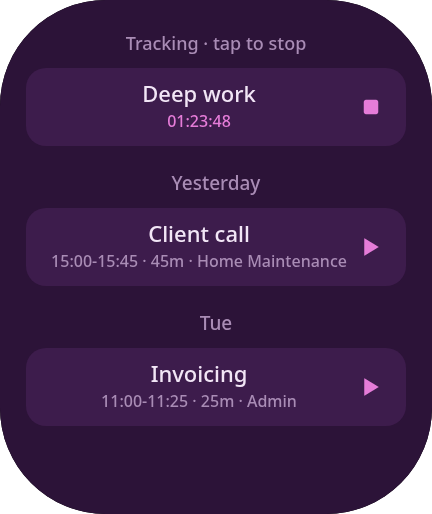
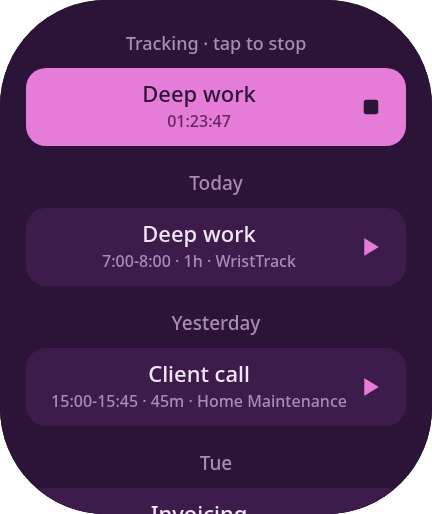
Show the running job's own history, and give its row the accent
Two things the device showed.

The history was empty whenever a timer ran, because the phone filtered
every row matching the running job out of the list on its way to the
watch. That rule dates from when the list was a menu of distinct jobs,
where offering the one already running was meaningless. As a history it
inverts: those recordings happened, and tracking a single job all month
- which is the real usage here - emptied the screen the moment it
started. The whole history now travels, and a tap naming the job
already running is ignored on the watch rather than spending a request
to change nothing.

The running row keeps the colour the old card had: accent fill, dark
ink, and a stop mark drawn in that same dark rather than pink on pink.

Drawing is one page now, not two that happened to agree - renderHistory
puts the live row above the list when there is one.

diff --git a/page/home/index.page.js b/page/home/index.page.js
@@ -262,14 +262,26 @@ Page(
      * drawn over it — Zepp text widgets do not take touches, so the button
      * underneath still receives them.
      */
-    jobRow(item, top, { onClick, subtitle, icon = PLAY_ICON, subtitleColor = COLORS.muted } = {}) {
+    jobRow(
+      item,
+      top,
+      {
+        onClick,
+        subtitle,
+        icon = PLAY_ICON,
+        color = COLORS.surface,
+        pressed = COLORS.surfacePressed,
+        labelColor = 0xf2e6f6,
+        subtitleColor = COLORS.muted
+      } = {}
+    ) {
       this.button({
         label: '',
         top,
         height: ROW_HEIGHT,
         radius: ROW_RADIUS,
-        color: COLORS.surface,
-        pressed: COLORS.surfacePressed,
+        color,
+        pressed,
         onClick
       })
       // Text and icon are drawn over the button rather than in it: Zepp text
@@ -282,7 +294,7 @@ Page(
         width: textWidth,
         height: 28,
         size: 22,
-        color: 0xf2e6f6
+        color: labelColor
       })
       const second = this.line(subtitle || item.subtitle || item.projectName, {
         left: EDGE + 22,
@@ -360,11 +372,7 @@ Page(
           'Check again'
         )
       }
-      const running = this.state.status.running
-      if (running) {
-        return this.renderRunning(running)
-      }
-      return this.renderReady()
+      return this.renderHistory()
     },
 
     /**
@@ -395,56 +403,52 @@ Page(
     },
 
     /**
-     * The live entry as a row like any other, with the whole history still
-     * below it. A tap on it stops the timer, which is what its stop mark
-     * says; a tap on a row below switches the running entry to that job
-     * without resetting the clock.
+     * One page: the month of history as rows, with the running entry
+     * conditionally at the top of it.
+     *
+     * The live row is the same size and shape as the rest, but wears the
+     * accent the old card had, so what is running reads at a glance without
+     * being a screen of its own. A tap on it stops the timer, which is what
+     * its stop mark says; a tap on any row below starts that job, or switches
+     * the running entry to it when one is already going.
      */
-    renderRunning(running) {
+    renderHistory() {
+      const running = this.state.status.running
+      const presets = this.state.status.presets || []
+
       const note = this.statusNote()
+      const busy = this.state.acting ? (running ? 'Stopping' : 'Starting') : ''
+      const lead = running ? 'Tracking · tap to stop' : 'This month · tap to start'
       this.text(
-        this.state.acting ? 'Stopping' : note ? `Tracking · ${note.toLowerCase()}` : 'Tracking · tap to stop',
+        busy || (note ? `${lead.split(' · ')[0]} · ${note.toLowerCase()}` : lead),
         30,
         26,
         18,
         this.state.acting ? COLORS.accent : COLORS.muted
       )
 
-      // The clock is the second line, ticking in place. Drawn in the accent
-      // so the live row reads differently from the finished ones below it.
-      this.state.timerWidget = this.jobRow(running, LIST_TOP, {
-        subtitle: formatElapsed(running.start),
-        subtitleColor: COLORS.accent,
-        icon: STOP_ICON,
-        onClick: () => this.stop()
-      })
-      this.state.interval = setInterval(() => {
-        if (this.state.timerWidget) {
-          this.state.timerWidget.setProperty(hmUI.prop.TEXT, formatElapsed(running.start))
-        }
-      }, 1000)
-
-      const { steps } = this.planList(this.state.status.presets, LIST_TOP + ROW_PITCH + DAY_GAP)
-      this.drawList(steps, (preset) => this.applyEdit(running, preset))
-    },
-
-    /**
-     * The month of history, every recording a row, reached by scrolling. A
-     * tap starts that job again — the row is the button, as it already is for
-     * the running row above it.
-     */
-    renderReady() {
-      const presets = this.state.status.presets || []
-
-      const note = this.statusNote()
-      const header = this.state.acting
-        ? 'Starting'
-        : note
-          ? `This month · ${note.toLowerCase()}`
-          : 'This month · tap to start'
-      this.text(header, 30, 26, 18, this.state.acting ? COLORS.accent : COLORS.muted)
+      let top = LIST_TOP
+      if (running) {
+        // The clock is the second line, ticking in place.
+        this.state.timerWidget = this.jobRow(running, top, {
+          subtitle: formatElapsed(running.start),
+          icon: STOP_ICON,
+          color: this.state.acting ? COLORS.accentPressed : COLORS.accent,
+          pressed: COLORS.accentPressed,
+          labelColor: COLORS.onAccent,
+          subtitleColor: COLORS.onAccentMuted,
+          onClick: () => this.stop()
+        })
+        this.state.interval = setInterval(() => {
+          if (this.state.timerWidget) {
+            this.state.timerWidget.setProperty(hmUI.prop.TEXT, formatElapsed(running.start))
+          }
+        }, 1000)
+        top += ROW_PITCH + DAY_GAP
+      }
 
       if (presets.length === 0) {
+        if (running) return
         this.panel(90, 120, COLORS.surface)
         this.text('Nothing tracked yet', 118, 34, 24, COLORS.text)
         this.text('Start one from Toggl first', 152, 28, 18, COLORS.muted)
@@ -455,8 +459,8 @@ Page(
       // day's recordings are already contiguous; a day with nothing tracked
       // simply never comes up. Rows with no usable start — the
       // configured-default fallback — draw ungrouped.
-      const { steps } = this.planList(presets, LIST_TOP)
-      this.drawList(steps, (preset) => this.start(preset))
+      const { steps } = this.planList(presets, top)
+      this.drawList(steps, (preset) => (running ? this.switchTo(running, preset) : this.start(preset)))
     },
 
     /**
@@ -492,6 +496,20 @@ Page(
       return Math.max(SCREEN.height, bottom + LIST_BOTTOM_PAD)
     },
 
+    /**
+     * Switches the running entry to another job. The history now includes the
+     * running job's own past recordings, so a tap can name what is already
+     * running — which Toggl would accept and nothing would change, at the cost
+     * of a request from an allowance worth guarding.
+     */
+    switchTo(running, preset) {
+      const same =
+        String(preset.workspaceId) === String(running.workspaceId) &&
+        String(preset.projectId || 0) === String(running.projectId || 0) &&
+        preset.description === running.description
+      if (same) return
+      this.applyEdit(running, preset)
+    },
     applyEdit(running, preset) {
       this.run(
         {

diff --git a/test/side-service.test.js b/test/side-service.test.js
@@ -364,7 +364,7 @@ test('stopping costs one request and records the finished run on top', async () 
   assert.equal(after.presets.filter((p) => p.description === 'Deep work').length, 2)
 })
 
-test('starting asks Toggl first, then drops the job from the list locally', async () => {
+test('starting asks Toggl first, and leaves the history it already had', async () => {
   const { send, calls } = await setup()
   await send('GET_STATUS')
 
@@ -373,7 +373,33 @@ test('starting asks Toggl first, then drops the job from the list locally', asyn
 
   assert.deepEqual(calls, ['GET /me/time_entries/current', 'POST /workspaces/10/time_entries'])
   assert.equal(after.running.description, 'Deep work')
-  assert.deepEqual(after.presets.map((p) => p.description), ['Client call'], 'no re-read of the recent list')
+  // The history is a record of what ran, so starting a job does not remove
+  // its earlier recordings from it — and no re-read pays for saying so.
+  assert.deepEqual(after.presets.map((p) => p.description), ['Deep work', 'Client call'])
+})
+
+/**
+ * Somebody who tracks one job all month has a history made entirely of that
+ * job. Filtering the running job out of the list emptied the screen the moment
+ * they started it, which is what the device showed.
+ */
+test('a history of nothing but the running job still reaches the watch', async () => {
+  const onlyJob = [
+    { id: 1, description: 'Jairus', project_id: 20, workspace_id: 10, duration: 10980, project_name: 'WristTrack', start: '2026-07-30T09:00:00+00:00' },
+    { id: 2, description: 'Jairus', project_id: 20, workspace_id: 10, duration: 21300, project_name: 'WristTrack', start: '2026-07-29T09:00:00+00:00' }
+  ]
+  const { send } = await setup({
+    current: runningEntry({ description: 'Jairus' }),
+    recent: onlyJob
+  })
+
+  const status = await send('GET_STATUS')
+  assert.equal(status.running.description, 'Jairus')
+  assert.deepEqual(
+    status.presets.map((p) => p.description),
+    ['Jairus', 'Jairus'],
+    'the past recordings of the running job are still history'
+  )
 })
 
 /**
@@ -398,19 +424,14 @@ test('starting is refused when Toggl has a timer the cache has not seen yet', as
 })
 
 /**
- * The running job is kept out of the list it could be switched to, but that
- * removal used to be written back to the cache — so each job that ran was lost
- * from the list permanently, and re-labelling away from one did not bring it
- * back. Over a session between recent-list reads the list thinned out.
+ * Re-labelling used to be written back to the cache as a removal, so each job
+ * that ran was lost from the list permanently and switching away from one did
+ * not bring it back. The list thinned out over a session.
  */
-test('re-labelling puts the job that was running back in the list', async () => {
+test('re-labelling leaves the history whole', async () => {
   const { send } = await setup({ current: runningEntry() })
   const before = await send('GET_STATUS')
-  assert.deepEqual(
-    before.presets.map((preset) => preset.description),
-    ['Client call'],
-    'the running job is not offered as something to switch to'
-  )
+  assert.deepEqual(before.presets.map((preset) => preset.description), ['Deep work', 'Client call'])
 
   const after = await send('UPDATE', {
     entryId: 4242,
@@ -422,10 +443,11 @@ test('re-labelling puts the job that was running back in the list', async () => 
     projectName: 'Home Maintenance'
   })
 
+  assert.equal(after.running.description, 'Client call', 'the running entry took the new label')
   assert.deepEqual(
     after.presets.map((preset) => preset.description),
-    ['Deep work'],
-    'switching to Client call should offer Deep work again, and stop offering Client call'
+    ['Deep work', 'Client call'],
+    'what already ran is unchanged by re-labelling what is running now'
   )
 })
 
@@ -438,13 +460,12 @@ test('the job list does not erode across polls', async () => {
     const polled = await send('GET_STATUS')
     assert.deepEqual(
       polled.presets.map((preset) => preset.description),
-      ['Client call'],
+      ['Deep work', 'Client call'],
       `the list changed on poll ${poll + 1}`
     )
   }
 
-  // Stopping restores the whole history: the run just finished on top, the
-  // earlier recording of the same job back where it was.
+  // Stopping adds the run that just finished on top of the ones before it.
   const stopped = await send('STOP', { entryId: 4242, workspaceId: 10 })
   assert.deepEqual(stopped.presets.map((preset) => preset.description), ['Deep work', 'Deep work', 'Client call'])
 })

diff --git a/test/page.test.js b/test/page.test.js
@@ -283,6 +283,50 @@ test('the history stays on screen while a timer runs', async () => {
   assert.equal(switches[0].params.description, 'Client call')
 })
 
+/**
+ * The history includes the running job's own past recordings — for somebody
+ * tracking one job all month, that is the entire list. Tapping one names the
+ * job that is already running, which Toggl would accept while changing
+ * nothing, so it must not spend a request from the hour's allowance.
+ */
+test('tapping a recording of the job already running does nothing', async () => {
+  const sameJob = {
+    ...recording('Deep work', 1, 9),
+    projectId: SAVED_RUNNING.running.projectId,
+    workspaceId: SAVED_RUNNING.running.workspaceId
+  }
+  const page = await makePage({ status: { ...SAVED_RUNNING, presets: [sameJob] } })
+  const sent = []
+  page.request = (payload) => {
+    sent.push(payload)
+    return new Promise(() => {})
+  }
+
+  const rows = (await drawn(page)).filter((widget) => widget.type === 'BUTTON')
+  rows[1].click_func()
+  assert.deepEqual(sent, [], 'switching a job to itself is not worth a request')
+
+  // The live row above it still stops, so the screen is not inert.
+  rows[0].click_func()
+  assert.equal(sent[0].method, 'STOP')
+})
+
+test('the running row wears the accent, and its mark reads against it', async () => {
+  const page = await makePage({ status: SAVED_RUNNING })
+  const widgets = await drawn(page)
+  const rows = widgets.filter((widget) => widget.type === 'BUTTON')
+
+  // The live row keeps the colour the old card had; the rest stay tonal.
+  assert.equal(rows[0].normal_color, 0xe57cd8, 'the running row is the accent pink')
+  rows.slice(1).forEach((row) => assert.equal(row.normal_color, 0x3d1c4c, 'the history rows are not'))
+
+  // Hours are not padded to two digits: a timer left running for days reads
+  // 372:18:53, which is still the clock.
+  const clock = widgets.find((widget) => /^\d+:\d{2}:\d{2}$/.test(String(widget.text ?? '')))
+  assert.ok(clock, 'the clock is on the running row')
+  assert.notEqual(clock.color, 0xe57cd8, 'pink on pink would be unreadable')
+})
+
 test('a tap may interrupt a status read, but not another action', async () => {
   const page = await makePage({ status: SAVED_RUNNING })
   const sent = []

diff --git a/app-side/index.js b/app-side/index.js
@@ -17,7 +17,6 @@ import {
   STATUS_MAX_AGE,
   SLOW_POLL_MS,
   entryAsHistoryItem,
-  entryAsPreset,
   isFresh,
   mergeFreshHistory,
   nextPollDelay,
@@ -27,8 +26,7 @@ import {
   refreshAllowance,
   relabelEntry,
   statusSignature,
-  withinWindow,
-  withoutPreset
+  withinWindow
 } from './cache'
 
 const ACCOUNT_KEY = 'togglAccount'
@@ -100,21 +98,20 @@ function writeStatus(cache) {
 /** Shapes a cache entry into the reply the watch renders from. */
 function present(cache, stale) {
   const running = cache.running || null
-  const list = cache.presets || []
   const status = {
     configured: true,
     userName: cache.userName,
     running,
     /**
-     * Switching to the job already running is meaningless, so it is kept out
-     * of the list — but only on the way to the watch. Removing it from the
-     * cache instead made the removal permanent: every job that ran was lost
-     * from the list until the next recent-entries read, and re-labelling away
-     * from one never offered it again. Filtering here also covers the case
-     * the duration check misses, where an earlier completed run of the same
-     * job is in the list under its own id.
+     * The whole history, the running job's own past recordings included.
+     *
+     * They used to be filtered out on the way to the watch, from back when
+     * this list was a menu of distinct jobs and offering the one already
+     * running was meaningless. As a history that reasoning inverts: those
+     * recordings happened, and somebody tracking one job all month would
+     * otherwise watch the list empty itself the moment they started it.
      */
-    presets: running ? withoutPreset(list, entryAsPreset(running)) : list,
+    presets: cache.presets || [],
     fetchedAt: cache.fetchedAt,
     stale: Boolean(stale),
     nextPollMs: nextPollDelay(readSpend())

diff --git a/test/layout.test.js b/test/layout.test.js
@@ -80,7 +80,7 @@ test('every screen offers a way forward', async () => {
 
 test('the running screen shows a live elapsed time, above the history', async () => {
   const widgets = await renderScenario(makePage, SCENARIOS.find((s) => s.name === '06-running'))
-  const clock = widgets.find((w) => /^\d{2}:\d{2}:\d{2}$/.test(String(w.text ?? '')))
+  const clock = widgets.find((w) => /^\d+:\d{2}:\d{2}$/.test(String(w.text ?? '')))
   assert.ok(clock, 'no HH:MM:SS readout on the running screen')
 
   // The running entry is a row like the others now, so the clock is no longer
